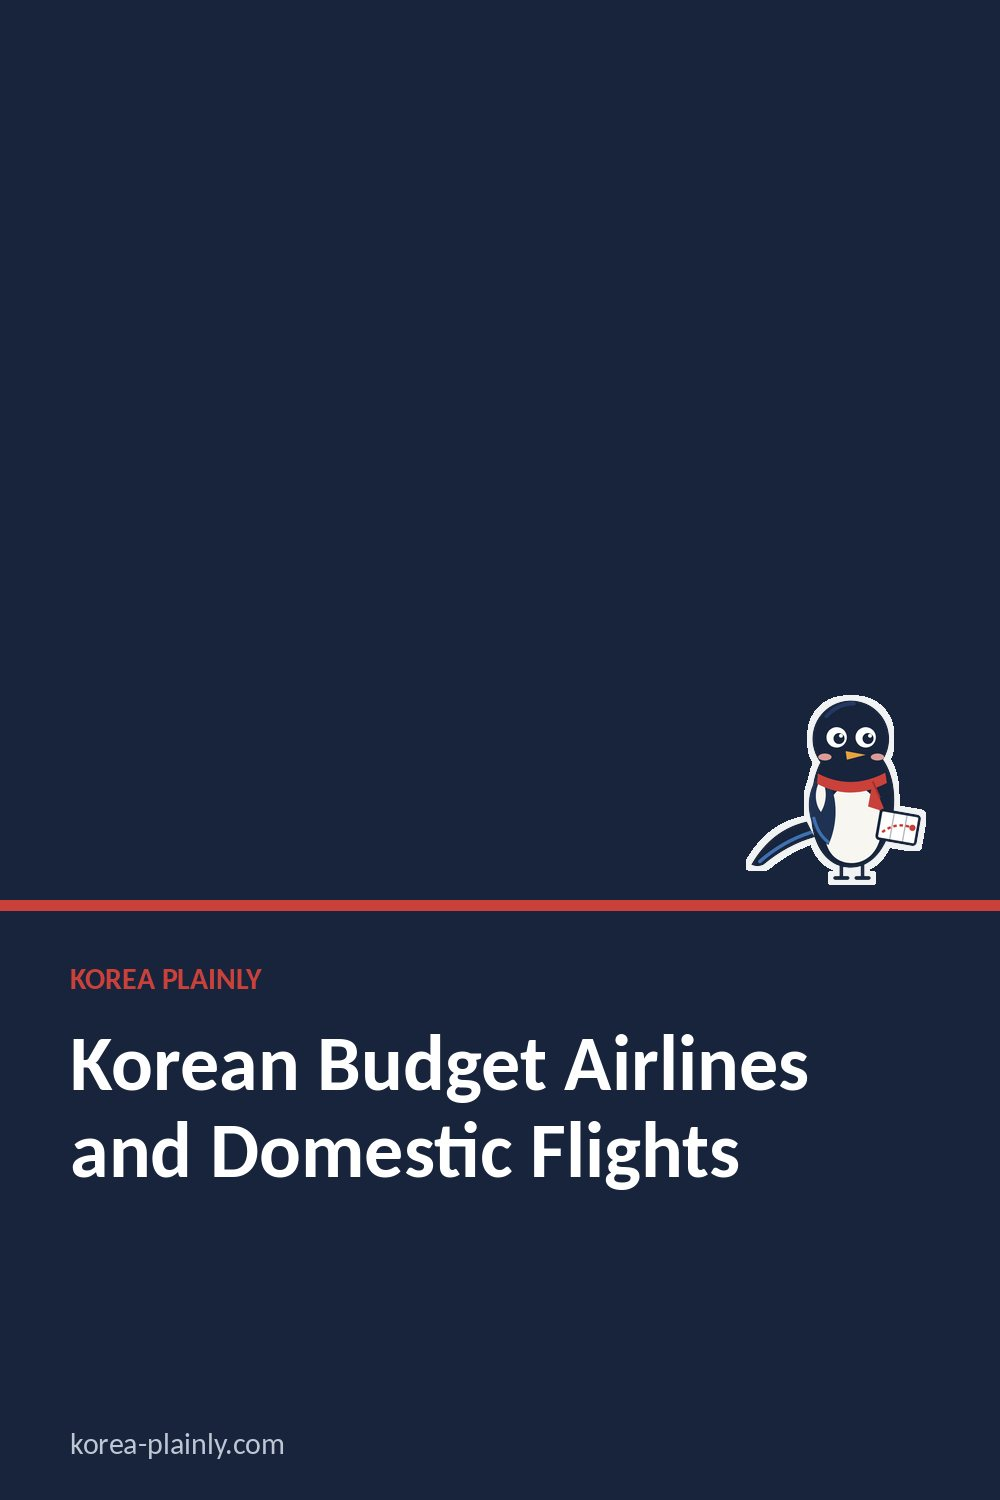
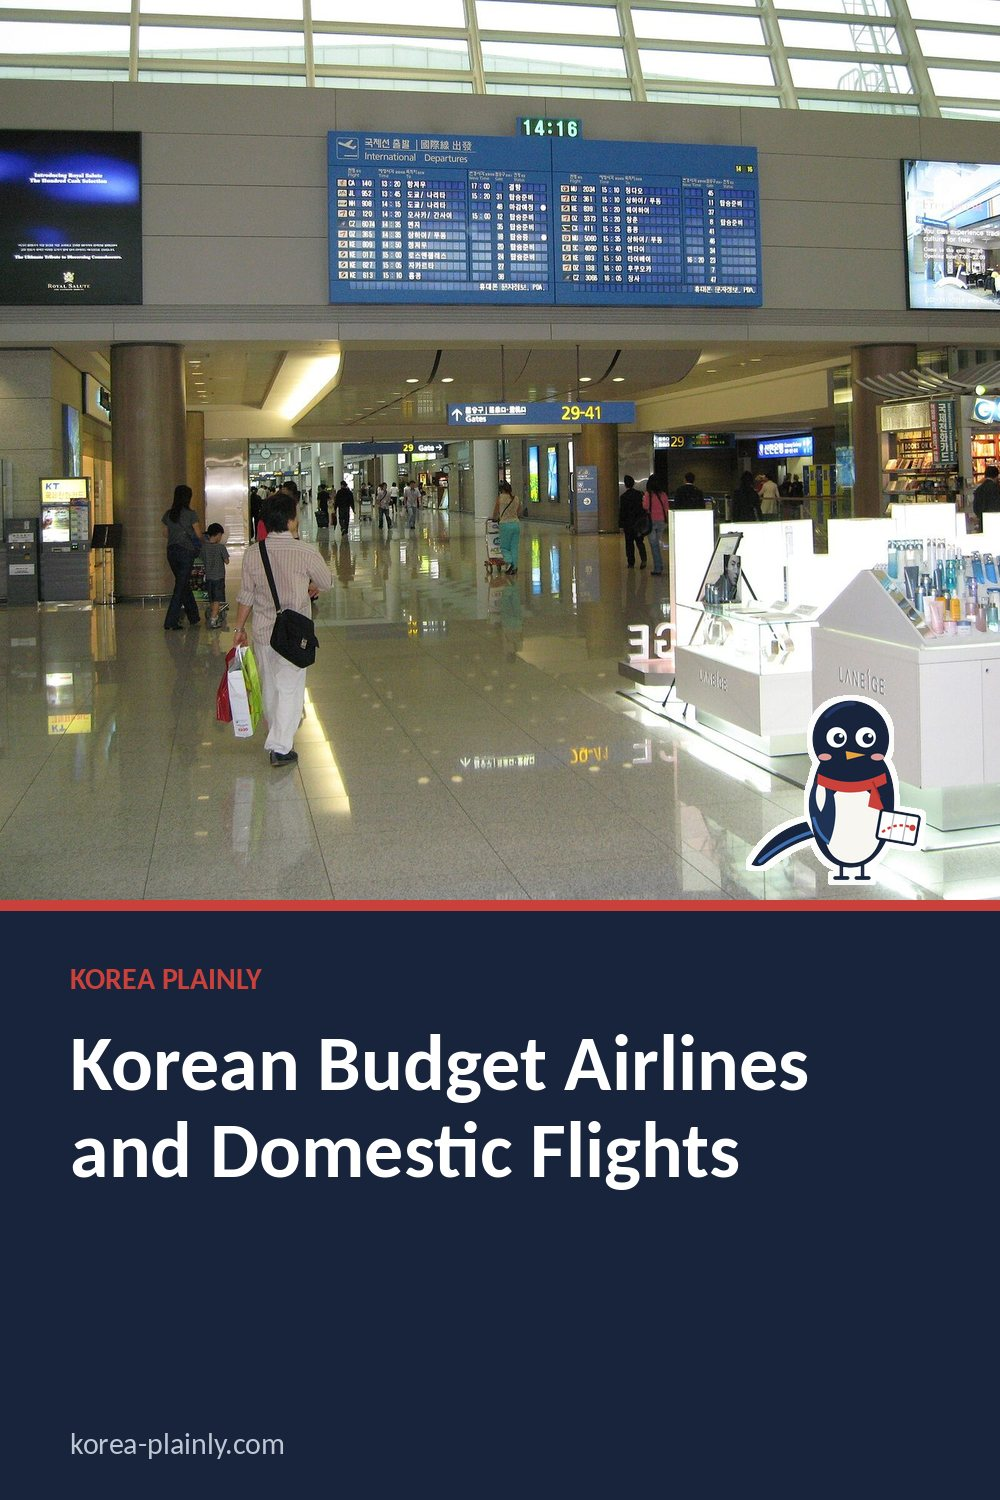
Domestic flights guide: use the airport departures-hall photo as cover (no Commons match for Gimpo)
Claude-Session: https://claude.ai/code/session_01NfaVavvWBzVzw3n1WYC62j

diff --git a/korea-domestic-flights-budget-airlines.html b/korea-domestic-flights-budget-airlines.html
@@ -44,7 +44,7 @@
 
 <meta
   property="og:image"
-  content="https://korea-plainly.com/street.jpg"
+  content="https://korea-plainly.com/photo-korea-packing-list.jpg"
 >
 
 <meta
@@ -69,7 +69,7 @@
 
 <meta
   name="twitter:image"
-  content="https://korea-plainly.com/street.jpg"
+  content="https://korea-plainly.com/photo-korea-packing-list.jpg"
 >
 
 <style>
@@ -248,7 +248,7 @@ footer {
 <link rel="stylesheet" href="article.css?v=3">
 <link rel="stylesheet" href="https://fonts.googleapis.com/css2?family=DM+Sans:wght@400;500;600;700&family=Playfair+Display:ital,wght@0,600;1,600&display=swap">
 <link rel="icon" href="/favicon.svg" type="image/svg+xml">
-<script type="application/ld+json" id="kp-article-ld">{"@context": "https://schema.org", "@type": "Article", "headline": "Korean Budget Airlines and Domestic Flights: Seoul to Jeju and Busan", "description": "How to book Korean domestic flights, choose between budget airlines and trains, and get between Gimpo, Jeju and Gimhae airports and the city.", "image": ["https://korea-plainly.com/street.jpg"], "datePublished": "2026-10-22", "dateModified": "2026-10-22", "author": {"@type": "Person", "name": "Jungsuk Kim", "url": "https://korea-plainly.com/about.html#author"}, "publisher": {"@type": "Organization", "name": "Korea Plainly", "url": "https://korea-plainly.com/"}, "mainEntityOfPage": "https://korea-plainly.com/korea-domestic-flights-budget-airlines.html"}</script>
+<script type="application/ld+json" id="kp-article-ld">{"@context": "https://schema.org", "@type": "Article", "headline": "Korean Budget Airlines and Domestic Flights: Seoul to Jeju and Busan", "description": "How to book Korean domestic flights, choose between budget airlines and trains, and get between Gimpo, Jeju and Gimhae airports and the city.", "image": ["https://korea-plainly.com/photo-korea-packing-list.jpg"], "datePublished": "2026-10-22", "dateModified": "2026-10-22", "author": {"@type": "Person", "name": "Jungsuk Kim", "url": "https://korea-plainly.com/about.html#author"}, "publisher": {"@type": "Organization", "name": "Korea Plainly", "url": "https://korea-plainly.com/"}, "mainEntityOfPage": "https://korea-plainly.com/korea-domestic-flights-budget-airlines.html"}</script>
 <script type="application/ld+json" id="kp-breadcrumb-ld">{"@context": "https://schema.org", "@type": "BreadcrumbList", "itemListElement": [{"@type": "ListItem", "position": 1, "name": "Home", "item": "https://korea-plainly.com/"}, {"@type": "ListItem", "position": 2, "name": "Guides", "item": "https://korea-plainly.com/guides.html"}, {"@type": "ListItem", "position": 3, "name": "Transport", "item": "https://korea-plainly.com/guides.html?category=transport"}, {"@type": "ListItem", "position": 4, "name": "Korean Budget Airlines and Domestic Flights: Seoul to Jeju and Busan", "item": "https://korea-plainly.com/korea-domestic-flights-budget-airlines.html"}]}</script>
 <meta property="article:published_time" content="2026-10-22">
 </head>
@@ -290,9 +290,10 @@ How to book Korean domestic flights, choose between budget airlines and trains, 
 
 <img
   class="cover"
-  src="street.jpg"
-  alt="Passengers boarding a domestic flight at Gimpo Airport for Jeju or Busan" srcset="img/street.5386e01c.w480.webp 480w, img/street.5386e01c.w800.webp 800w, img/street.5386e01c.w1200.webp 1200w, street.jpg 1536w" sizes="(max-width: 860px) 100vw, 820px" fetchpriority="high"
+  src="photo-korea-packing-list.jpg"
+  alt="Passengers boarding a domestic flight at Gimpo Airport for Jeju or Busan" srcset="img/photo-korea-packing-list.73e71725.w480.webp 480w, img/photo-korea-packing-list.73e71725.w800.webp 800w, img/photo-korea-packing-list.73e71725.w1200.webp 1200w, photo-korea-packing-list.jpg 1600w" sizes="(max-width: 860px) 100vw, 820px" fetchpriority="high"
 >
+<p class="photo-credit" data-kp="photo-credit" style="font-size:12px;color:#777;margin:-18px 0 24px"><a href="https://commons.wikimedia.org/wiki/File:Incheon_Airport3.JPG" target="_blank" rel="noopener nofollow" style="color:inherit">Photo: Jnpet, CC BY-SA 3.0, via Wikimedia Commons</a></p>
 
 <article>
 

diff --git a/guides.html b/guides.html
@@ -2661,7 +2661,7 @@ class="guide-card"
 href="korea-domestic-flights-budget-airlines.html" data-guide-category="transport"
 >
 
-<div class="guide-image" data-thumb="thumb-auto-korea-domestic-flights-budget-airlines.svg"><img class="guide-thumb" src="thumb-auto-korea-domestic-flights-budget-airlines.svg" alt="" loading="eager" decoding="async">
+<div class="guide-image" data-thumb="photo-korea-packing-list.jpg"><img class="guide-thumb" src="photo-korea-packing-list.jpg" alt="" loading="eager" srcset="img/photo-korea-packing-list.73e71725.w480.webp 480w, img/photo-korea-packing-list.73e71725.w800.webp 800w, img/photo-korea-packing-list.73e71725.w1200.webp 1200w, photo-korea-packing-list.jpg 1600w" sizes="(max-width: 600px) 100vw, (max-width: 1000px) 50vw, 400px" decoding="async">
 
 <span>
 23
